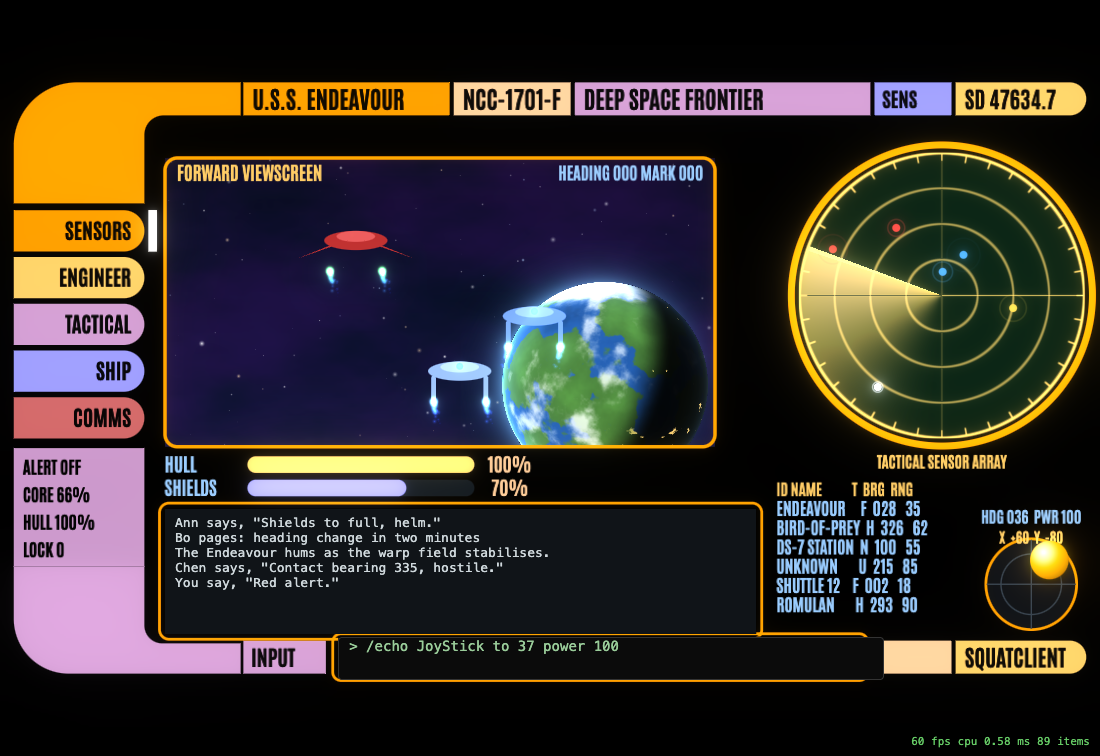
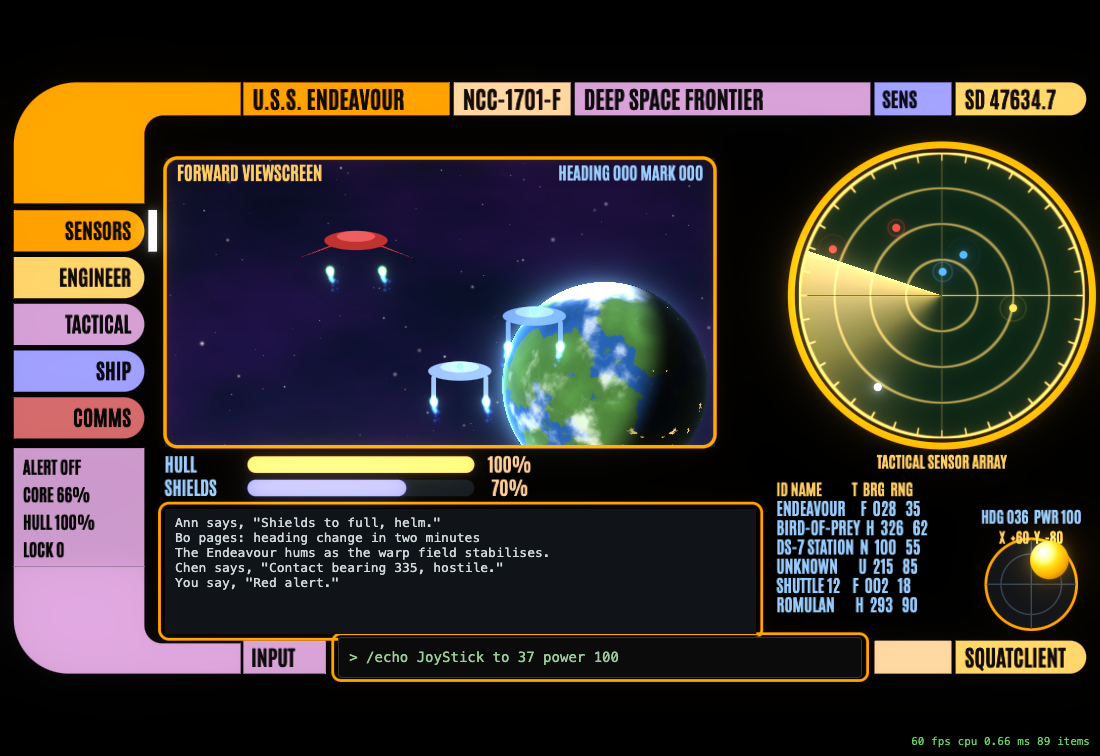
dev page: the stage no longer grows with the canvas (wide-short panes were cut off); geometry and screenshot checks that the input line and text port stay inside the pane; real input aligned to its frame strip

Changed region(s): [[0.3091, 0.8519, 0.5873, 0.8823], [0.7727, 0.8214, 0.8036, 0.9127], [0.7418, 0.3347, 0.8036, 0.3651]]

diff --git a/frontend/src/gfx/demo/main.ts b/frontend/src/gfx/demo/main.ts
@@ -22,13 +22,12 @@ if (pane) {
   const [pw, ph] = [Number(pane[1]), Number(pane[2])];
   const share = Number(q.get('size') ?? 60);
   document.body.style.cssText += `;display:flex;flex-direction:column;width:${pw}px;height:${ph + 36}px;`;
-  stage.style.cssText = `position:relative;flex:0 0 ${share}%;`;
+  stage.style.cssText = `position:relative;flex:0 0 ${share}%;min-height:0;overflow:hidden;`; // min-height 0: the canvas size must never grow the stage
   const out = document.createElement('div');
   out.style.cssText = 'flex:1;min-height:0;overflow:hidden;background:#101418;color:#cfd8dc;font:13px ui-monospace,monospace;padding:6px 10px;box-sizing:border-box;';
   out.innerHTML = ['Ann says, "Shields to full, helm."', 'Bo pages: heading change in two minutes', 'The Endeavour hums as the warp field stabilises.', 'Chen says, "Contact bearing 335, hostile."', 'You say, "Red alert."'].map((l) => `<div>${l}</div>`).join('');
-  const inp = document.createElement('div');
-  inp.id = 'input';
-  inp.style.cssText = 'position:static;opacity:1;flex:0 0 36px;height:36px;line-height:36px;border:0;border-top:1px solid #333;border-radius:0;right:auto;';
+  const inp = document.getElementById('input')!; // the page's own input box stands in for the real input line
+  inp.style.cssText = 'box-sizing:border-box;position:static;opacity:1;flex:0 0 36px;height:36px;line-height:34px;padding:0 10px;border:1px solid #333;border-radius:4px;background:#0b0b0b;color:#9c9;font:14px ui-monospace,monospace;z-index:6;';
   inp.textContent = '> ';
   document.body.append(out, inp);
   paneOut = out;
@@ -143,7 +142,7 @@ function layoutPane(): void {
     const inp = document.getElementById('input');
     if (plan.input && inp) {
       const i = plan.input;
-      inp.style.cssText += `;position:absolute;left:${i.x}px;top:${i.y}px;width:${i.w}px;height:${i.h}px;flex:none;z-index:6;right:auto;bottom:auto;`;
+      inp.style.cssText += `;position:absolute;left:${i.x}px;top:${i.y}px;width:${i.w}px;height:${i.h}px;flex:none;z-index:6;right:auto;bottom:auto;line-height:${i.h - 2}px;`;
       stage.appendChild(inp);
       holes.push(i);
     }

diff --git a/frontend/tests/gfx.port.test.ts b/frontend/tests/gfx.port.test.ts
@@ -33,3 +33,27 @@ describe('text port geometry', () => {
     expect(c).toContain('30px 30px');
   });
 });
+
+describe('wide-short panes keep the whole frame, the text port and the input line inside the pane', () => {
+  const full = (o: object = {}) => ({ w: 1600, h: 900, fit: 'contain' as const, dock: 'full' as const, port: [240, 640, 860, 182] as [number, number, number, number], inputPort: [492, 826, 762, 60] as [number, number, number, number], ...o });
+  for (const [w, h] of [[1500, 640], [1800, 500], [1300, 560], [1100, 720], [2400, 700]]) {
+    it(`${w}x${h}`, async () => {
+      const { planScene, MIN_TEXT } = await import('../src/gfx/port');
+      const p = planScene(full(), { w, h });
+      if (p.mode === 'hidden') return; // allowed: the text takes the whole pane
+      expect(p.mode).toBe('frame');
+      if (p.mode !== 'frame') return;
+      for (const r of [p.out, p.input!]) {
+        expect(r.x).toBeGreaterThanOrEqual(-0.5);
+        expect(r.y).toBeGreaterThanOrEqual(-0.5);
+        expect(r.x + r.w).toBeLessThanOrEqual(w + 0.5);
+        expect(r.y + r.h).toBeLessThanOrEqual(h + 0.5);
+      }
+      expect(p.input!.h).toBeGreaterThanOrEqual(34);
+      expect(p.out.h).toBeGreaterThanOrEqual(MIN_TEXT.h);
+      const v = viewFit(full(), w, h); // the whole scene fits: scaled by the limiting dimension, never by width alone
+      expect(v.sx * 1600).toBeLessThanOrEqual(w + 0.5);
+      expect(v.sy * 900).toBeLessThanOrEqual(h + 0.5);
+    });
+  }
+});

diff --git a/frontend/src/styles/app.css b/frontend/src/styles/app.css
@@ -1688,10 +1688,11 @@ h3.lay-panel-title {
 /* a graphics scene reserves a text port: the output sits in it, under the scene (which has a hole there) */
 .lay-app { position: relative; }
 .lay-input.ported { position: absolute; z-index: 6; display: flex; align-items: stretch; overflow: hidden; }
-.lay-input.ported > * { flex: 1; min-width: 0; }
+.lay-input.ported > * { flex: 1; min-width: 0; min-height: 0; box-sizing: border-box; }
+.lay-input.ported .inputline { height: 100%; margin: 0; box-sizing: border-box; }
 .lay-output.ported { position: absolute; flex: none; z-index: 1; }
 .gfx-scene { pointer-events: auto; overflow: hidden; z-index: 5; outline: none; }
 .gfx-scene.passthrough { pointer-events: none; }
-.gfx-scene canvas { width: 100%; height: 100%; display: block; }
+.gfx-scene canvas { position: absolute; inset: 0; width: 100%; height: 100%; display: block; }
 .gfx-close { position: absolute; top: 4px; right: 8px; pointer-events: auto; background: rgba(0, 0, 0, 0.55); color: #fc9; border: 1px solid #fc9; border-radius: 4px; width: 26px; height: 26px; cursor: pointer; z-index: 2; }
 .gfx-msg { position: absolute; left: 12px; top: 12px; padding: 8px 12px; background: #200; color: #fcc; border: 1px solid #a44; border-radius: 4px; pointer-events: auto; }

diff --git a/frontend/gfx-demo.html b/frontend/gfx-demo.html
@@ -8,7 +8,7 @@
       html, body { margin: 0; height: 100%; background: #000; overflow: hidden; color: #ccc; font: 13px system-ui, sans-serif; }
       #stage { position: fixed; inset: 0; }
       body.pane #stage { position: relative; inset: auto; }
-      #stage canvas { width: 100%; height: 100%; display: block; }
+      #stage canvas { position: absolute; inset: 0; width: 100%; height: 100%; display: block; }
       #msg { position: fixed; left: 12px; top: 12px; max-width: 70ch; white-space: pre-wrap; z-index: 5; }
       #input { position: fixed; left: 12px; bottom: 6px; right: 200px; height: 30px; line-height: 30px; padding: 0 10px; background: #0b0b0b; border: 1px solid #333; border-radius: 4px; color: #9c9; font: 14px ui-monospace, monospace; z-index: 6; opacity: 0; }
       #hud { position: fixed; right: 10px; bottom: 8px; font: 11px ui-monospace, monospace; color: #6c6; z-index: 5; text-shadow: 0 0 4px #000; }
